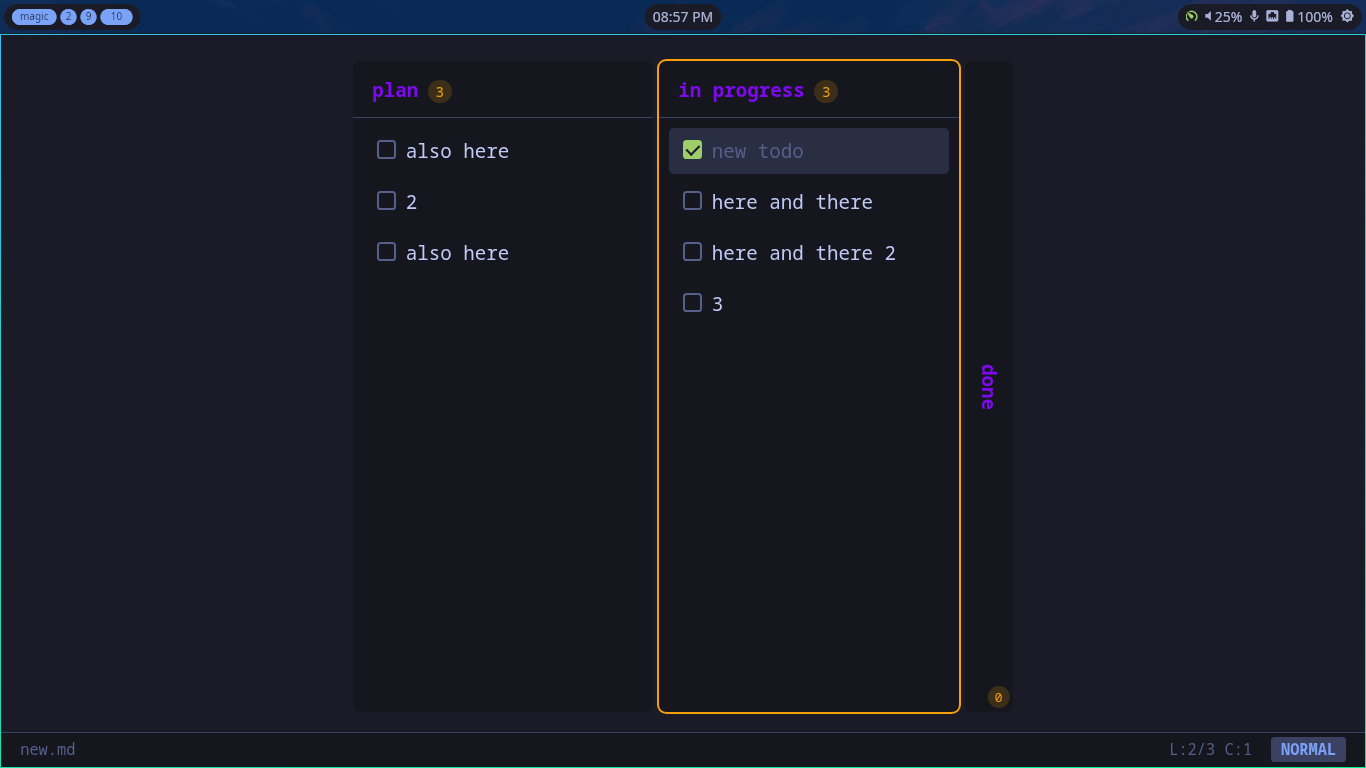
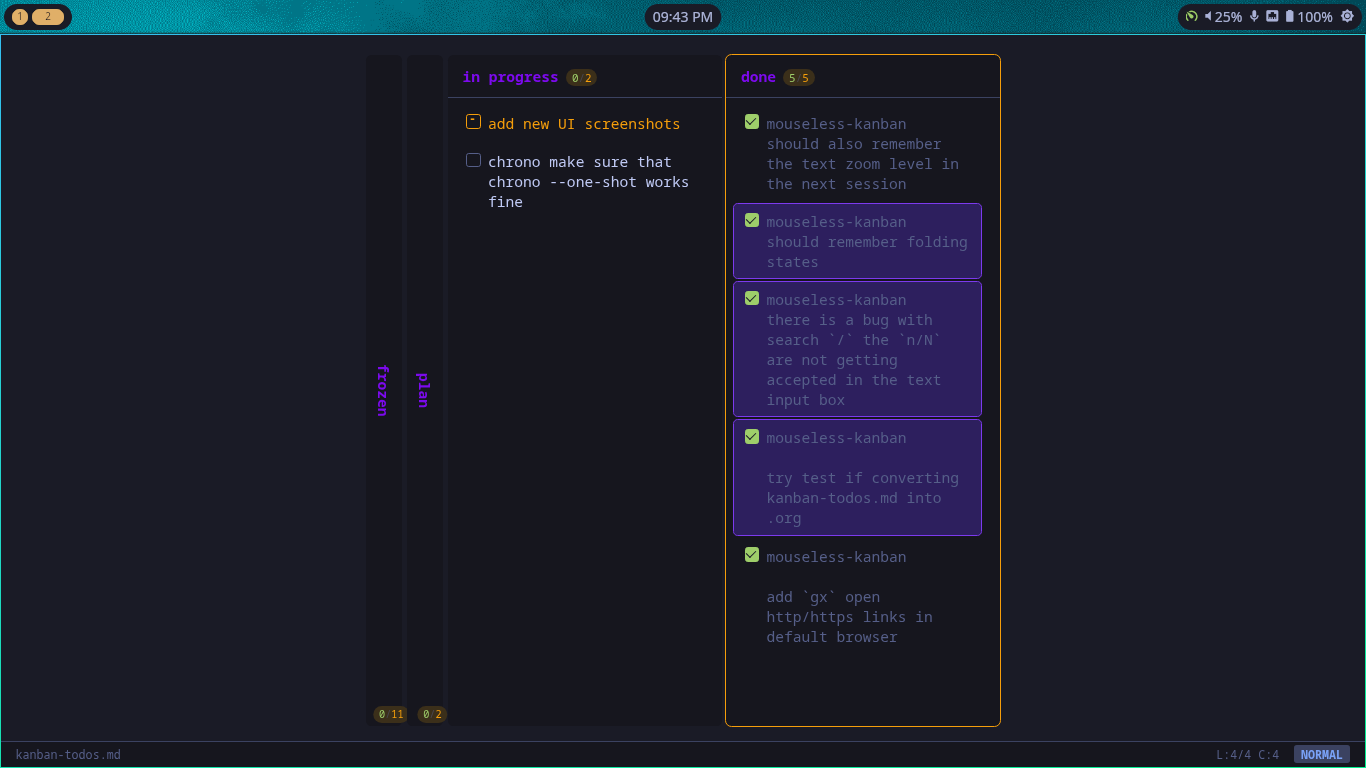
feat: open http/https links in browser with gx
-  opens the first URL from the active card's title in the default browser
- extractUrl() supports bare URLs, markdown [label](url), org [[url]] / [[url][label]]
- New app:open-external IPC handler (http/https only, validated in main process)
- Open Link in Card command added to the Ctrl+P palette
- Updated shortcuts manual, README, changelog

diff --git a/src/core/links.test.ts b/src/core/links.test.ts
@@ -1,0 +1,33 @@
+import { describe, it, expect } from 'vitest'
+import { extractUrl } from './links'
+
+describe('extractUrl', () => {
+  it('extracts a bare http URL', () => {
+    expect(extractUrl('check https://example.com please')).toBe('https://example.com')
+  })
+
+  it('extracts a bare https URL at start of text', () => {
+    expect(extractUrl('https://obsidian.md works')).toBe('https://obsidian.md')
+  })
+
+  it('extracts a markdown link', () => {
+    expect(extractUrl('[Docs](https://docs.example.com/path)')).toBe('https://docs.example.com/path')
+  })
+
+  it('extracts an org link', () => {
+    expect(extractUrl('[[https://org.example.com][title]]')).toBe('https://org.example.com')
+  })
+
+  it('returns the first URL when multiple exist', () => {
+    expect(extractUrl('a https://first.com b https://second.com')).toBe('https://first.com')
+  })
+
+  it('returns null when no URL exists', () => {
+    expect(extractUrl('no links here')).toBeNull()
+  })
+
+  it('returns null for empty text', () => {
+    expect(extractUrl('')).toBeNull()
+    expect(extractUrl(null as unknown as string)).toBeNull()
+  })
+})

diff --git a/src/hooks/useKeys.ts b/src/hooks/useKeys.ts
@@ -1,6 +1,7 @@
 import { useEffect, useRef } from 'react'
 import { useBoardState } from '../store'
 import type { BoardAction } from '../core/types'
+import { extractUrl } from '../core/links'
 
 interface UseKeysProps {
   showPicker: boolean
@@ -100,6 +101,14 @@ export function useKeys({ showPicker, setShowPicker, dispatch, setShowSettings, 
         if (!e.shiftKey && e.key === 'b') { e.preventDefault(); lastKey.current = null; dispatch({ type: 'MOVE_CARD_TO_BOTTOM' }); return }
         if (!e.shiftKey && e.key === 'a') { e.preventDefault(); lastKey.current = null; if (lane && card) dispatch({ type: 'ARCHIVE_CARD', laneId: lane.id, cardId: card.id }); return }
         if (e.key === 'A') { e.preventDefault(); lastKey.current = null; dispatch({ type: 'ARCHIVE_ALL_DONE' }); return }
+        if (!e.shiftKey && e.key === 'x') {
+          e.preventDefault(); lastKey.current = null
+          if (card) {
+            const url = extractUrl(card.title)
+            if (url) window.api.openExternal(url)
+          }
+          return
+        }
       }
 
       // Lowercase = navigate

diff --git a/src/core/commands.ts b/src/core/commands.ts
@@ -1,5 +1,6 @@
 import type { Dispatch } from 'react'
 import type { BoardAction, Lane, Card } from '../core/types'
+import { extractUrl } from './links'
 
 export interface Command {
   id: string
@@ -238,6 +239,18 @@ export const commands: Command[] = [
     shortcut: 'x',
     category: 'Card',
     action: (d, lane, card) => { if (lane && card) d({ type: 'TOGGLE_CARD', laneId: lane.id, cardId: card.id }) },
+  },
+  {
+    id: 'open-link',
+    label: 'Open Link in Card',
+    shortcut: 'gx',
+    category: 'Card',
+    action: (_, __, card) => {
+      if (card) {
+        const url = extractUrl(card.title)
+        if (url) window.api.openExternal(url)
+      }
+    },
   },
   {
     id: 'toggle-in-progress',

diff --git a/electron/main.ts b/electron/main.ts
@@ -1,4 +1,4 @@
-import { app, BrowserWindow, ipcMain, dialog } from 'electron'
+import { app, BrowserWindow, ipcMain, dialog, shell } from 'electron'
 import path from 'path'
 import fs from 'fs'
 
@@ -200,6 +200,13 @@ function registerIpcHandlers() {
   ipcMain.handle('app:quit', () => {
     appendLog('Quit requested')
     app.quit()
+  })
+
+  ipcMain.handle('app:open-external', async (_event, url: string) => {
+    if (!/^https?:\/\//.test(url)) return false
+    await shell.openExternal(url)
+    appendLog(`Opened external: ${url}`)
+    return true
   })
 
   // Zoom

diff --git a/src/hooks/useFile.ts b/src/hooks/useFile.ts
@@ -29,6 +29,7 @@ declare global {
       listVault: (vaultPath: string) => Promise<VaultFile[]>
       createInVault: (vaultPath: string, name: string) => Promise<{ filePath: string; content: string } | null>
       quit: () => Promise<void>
+      openExternal: (url: string) => Promise<boolean>
       zoomIn: () => Promise<void>
       zoomOut: () => Promise<void>
       zoomReset: () => Promise<void>

diff --git a/src/core/links.ts b/src/core/links.ts
@@ -1,0 +1,14 @@
+const URL_RE = /https?:\/\/[^\s)\]]+/g
+
+export function extractUrl(text: string): string | null {
+  if (!text) return null
+
+  const markdown = text.match(/\[[^\]]*\]\((https?:\/\/[^)\s]+)\)/)
+  if (markdown) return markdown[1]
+
+  const org = text.match(/\[\[(https?:\/\/[^\]\s]+)/)
+  if (org) return org[1]
+
+  const bare = text.match(URL_RE)
+  return bare ? bare[0] : null
+}

diff --git a/src/components/Shortcuts.tsx b/src/components/Shortcuts.tsx
@@ -52,6 +52,7 @@ const sections = [
       ['Enter', 'Finish editing'],
       ['Escape', 'Finish editing / deselect / close menu'],
       ['x', 'Toggle checkbox [ ] / [x]'],
+      ['gx', 'Open link in card (default browser)'],
       ['-', 'Toggle in-progress [ ] / [-]'],
       ['dd', 'Delete card (double-tap d, or single d if selected)'],
       ['yy', 'Copy card (double-tap y)'],

diff --git a/electron/preload.ts b/electron/preload.ts
@@ -15,6 +15,7 @@ contextBridge.exposeInMainWorld('api', {
 
   // App
   quit: () => ipcRenderer.invoke('app:quit'),
+  openExternal: (url: string) => ipcRenderer.invoke('app:open-external', url),
 
   // Zoom
   zoomIn: () => ipcRenderer.invoke('zoom:in'),
